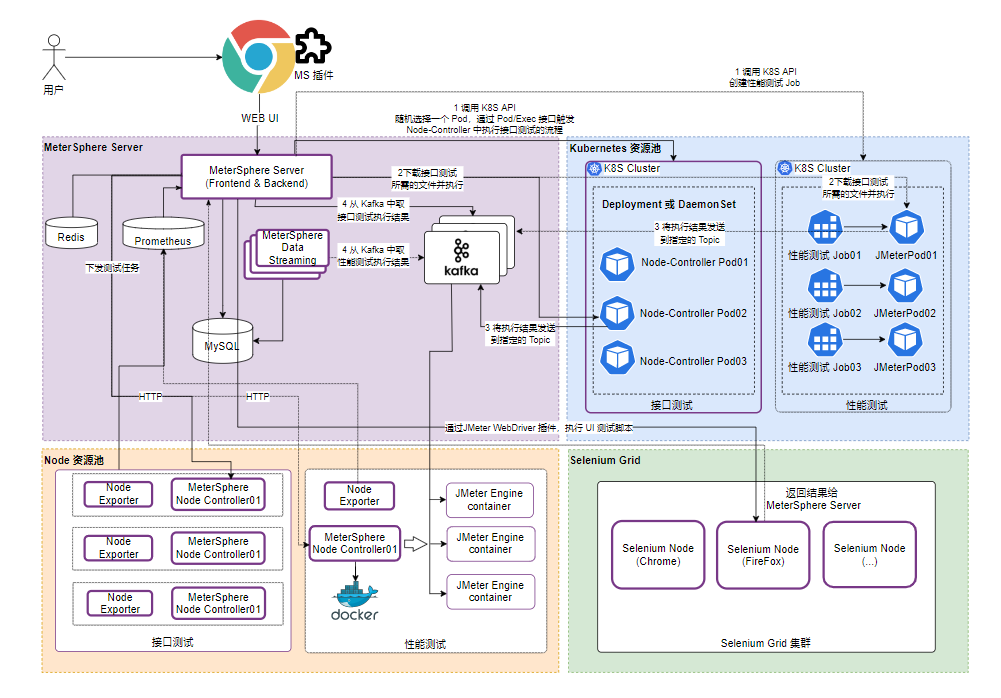
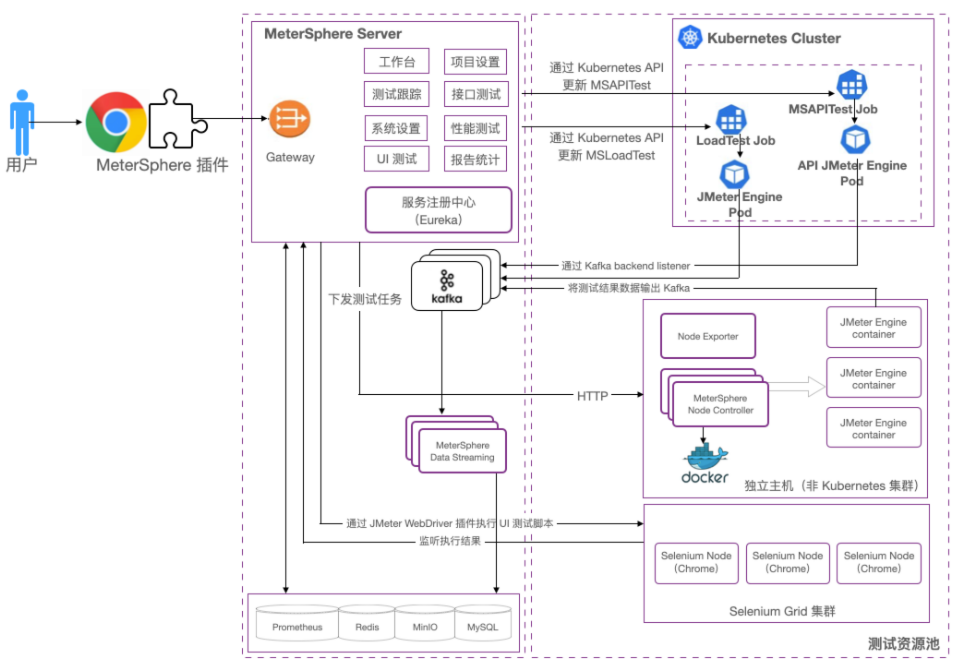
docs: 替换微服务架构图

diff --git a/docs/system_arch.md b/docs/system_arch.md
@@ -44,7 +44,7 @@ MeterSphere 提供了多租户、多角色的管理模型, 用户可根据所在
 
 ## 技术栈
 
-- 后端: [Spring Boot](https://www.tutorialspoint.com/spring_boot/spring_boot_introduction.htm)
+- 后端: [Spring Cloud](https://www.tutorialspoint.com/spring_cloud/spring_cloud_introduction.htm)
 - 前端: [Vue.js](https://vuejs.org/)
 - 中间件: [MySQL](https://www.mysql.com/), [Kafka](https://kafka.apache.org/), [Redis](https://redis.io/), [Prometheus](https://prometheus.io/)
 - 基础设施: [Docker](https://www.docker.com/), [Kubernetes](https://kubernetes.io/)
